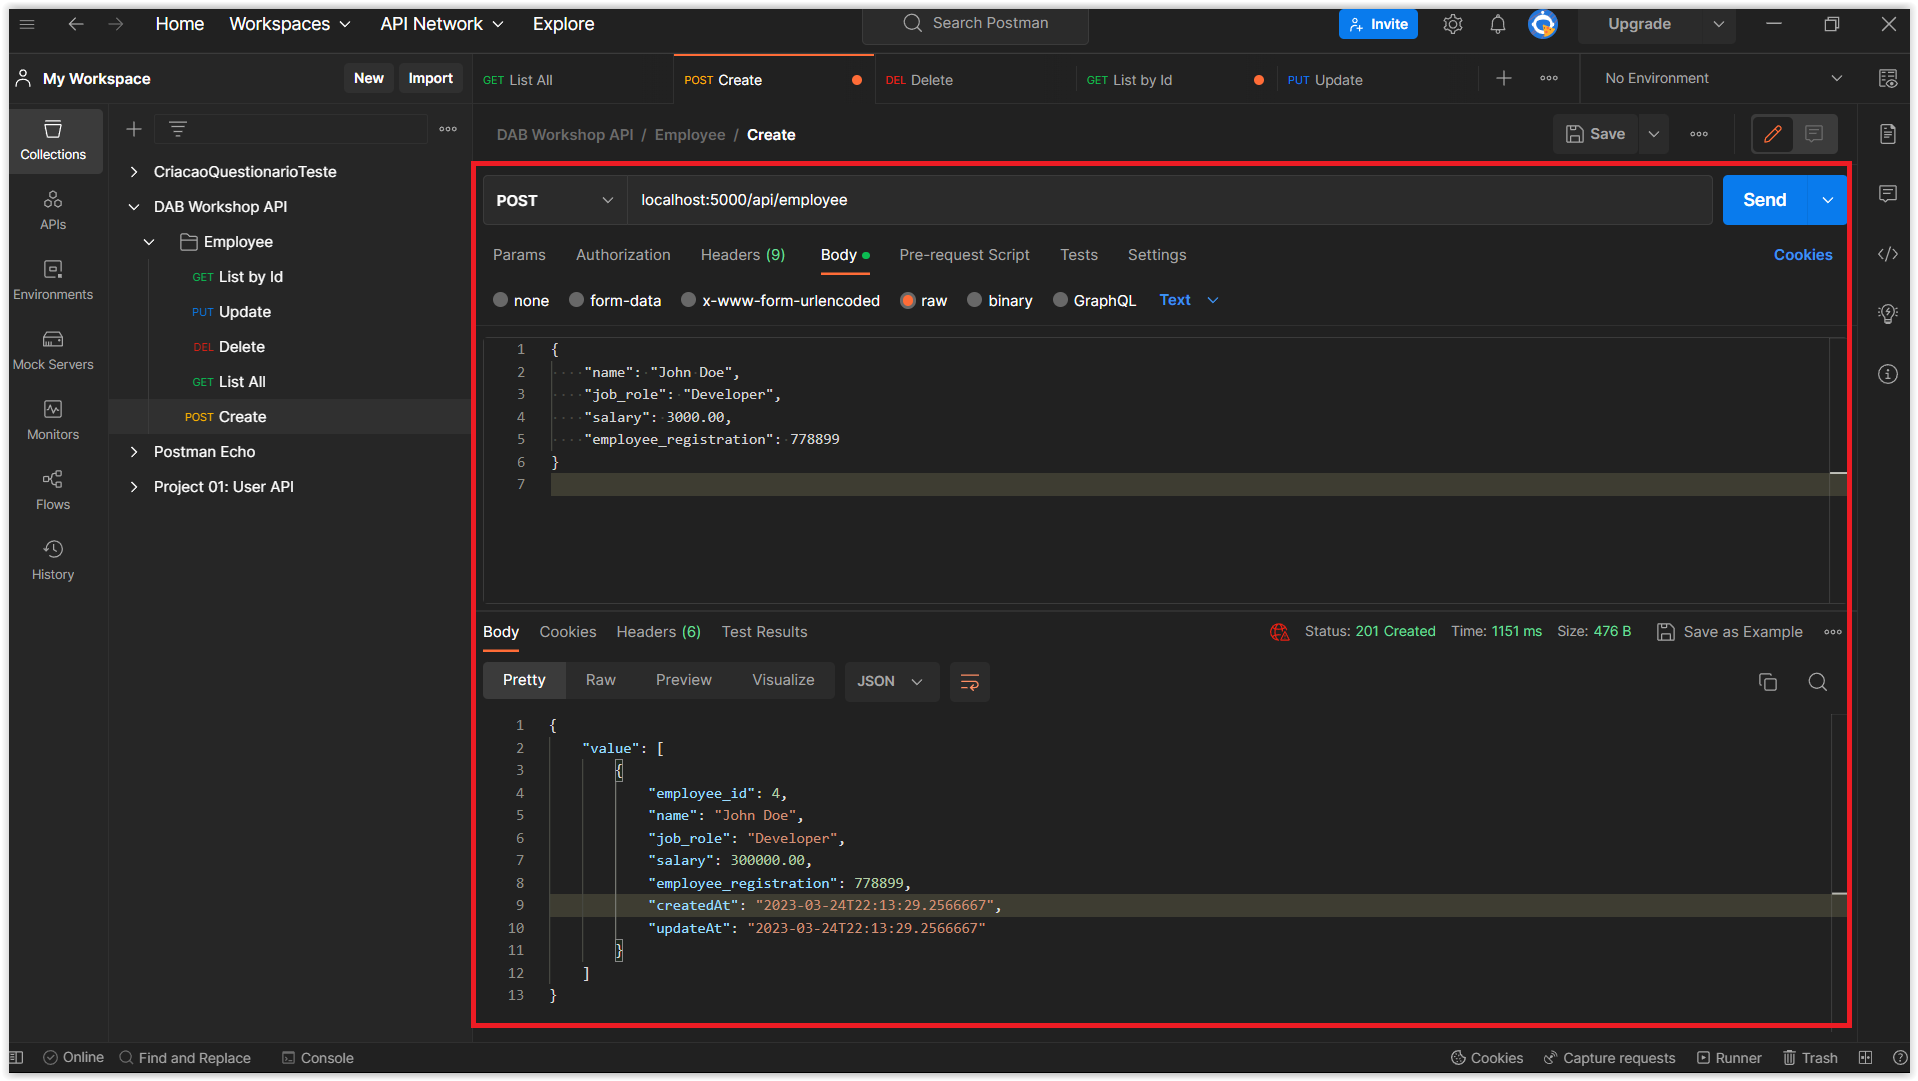
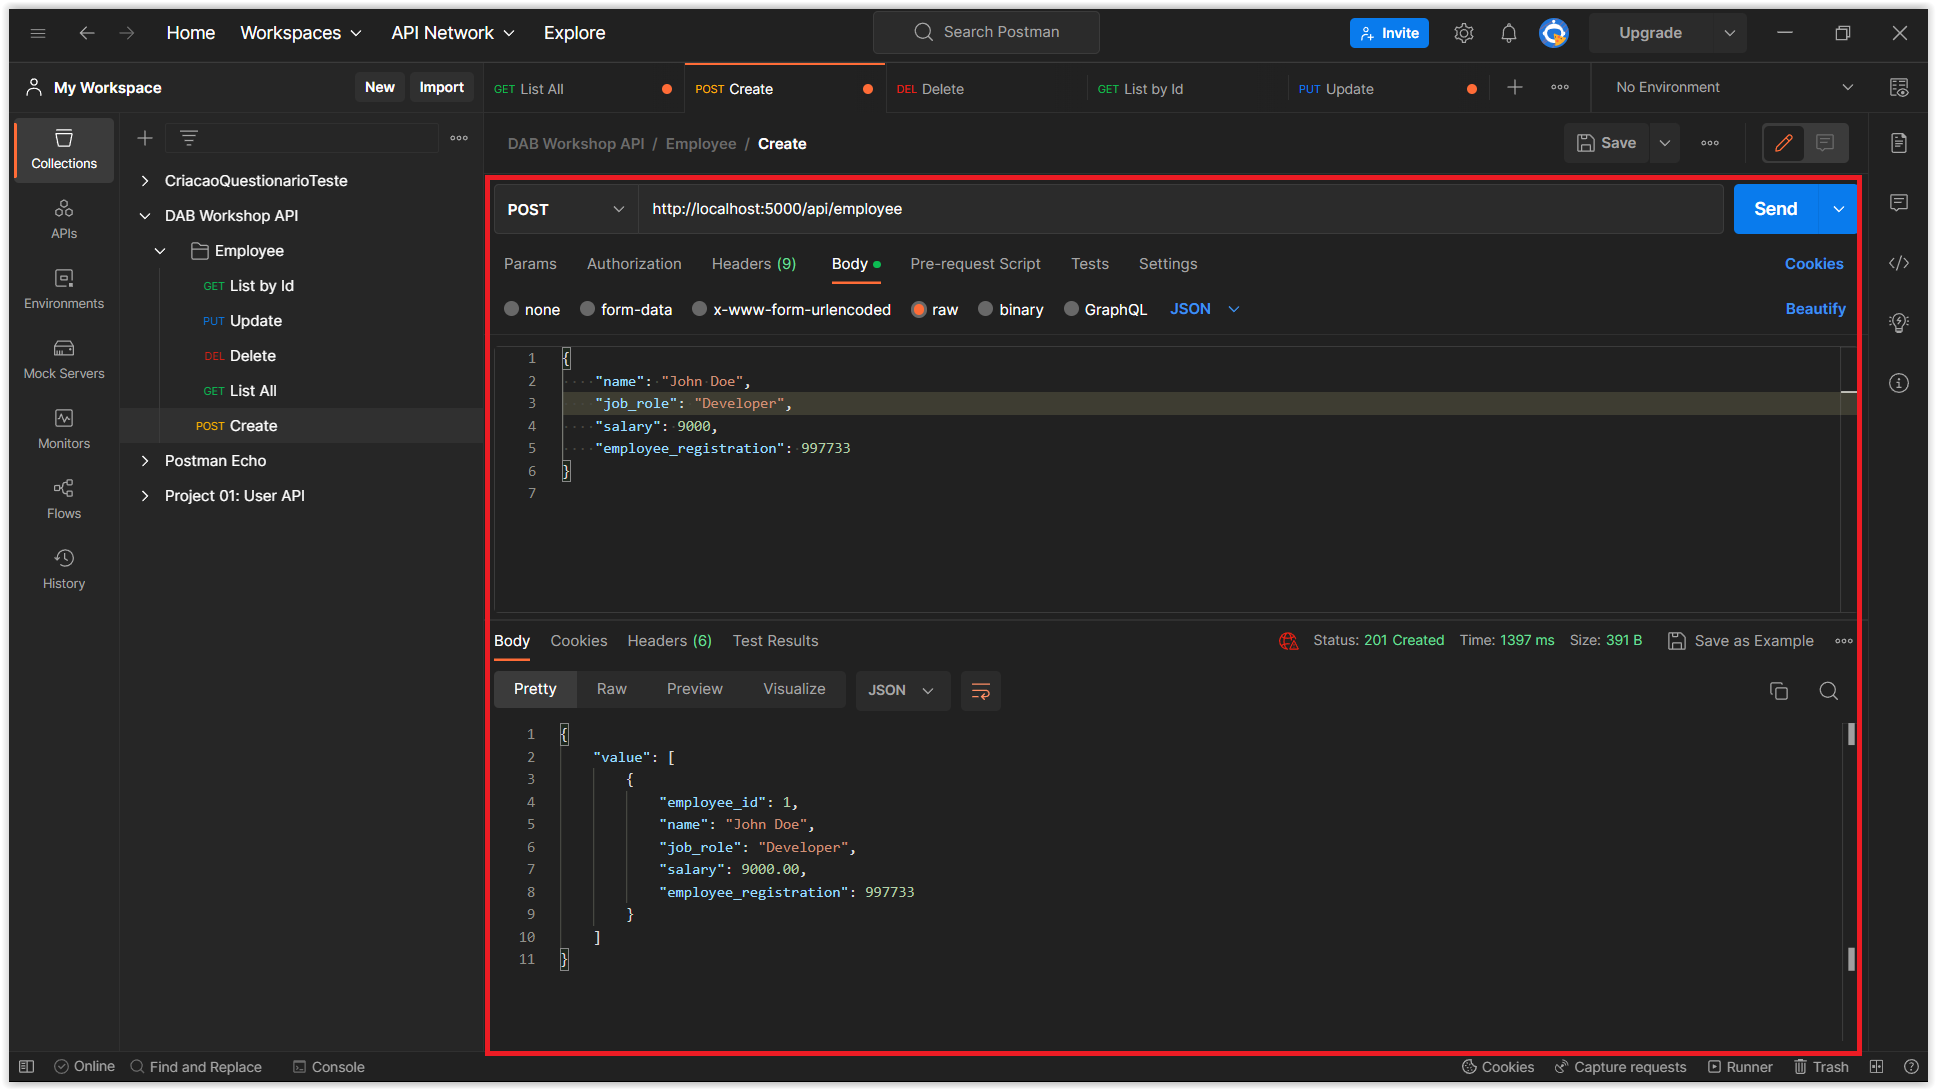
chore: some important changes in the session-06

diff --git a/workshops/en-us/workshop-demo-01/06-session.md b/workshops/en-us/workshop-demo-01/06-session.md
@@ -8,7 +8,7 @@ Since we finished setting up the database with the DAB CLI in the last session, 
 dab start --no-https-redirect
 ```
 
-> **Note:** The dab start command will start the DAB server and expose our API. To stop the server, simply press `Ctrl+C`.
+> **Note:** The `dab start --no-https-redirect` command will start the DAB server and expose our API. To stop the server, simply press `Ctrl+C`.
 
 If you run the command and the message appears as shown in the image below, it means that the server has started successfully. Note that the indicated port is `5000`.
 
@@ -23,11 +23,8 @@ Since our entity is an `employee`, the route will be `/api/employee`.
 The supported HTTP verbs are:
 
 - `GET`: to get data POST: to create data;
-
 - `PUT`: to update data
-
 - `PATCH`: to partially update the data.
-
 - `DELETE`: to delete data Let's now test all the routes!
 
 ## Route: POST 
@@ -36,14 +33,14 @@ To create a new employee, open Postman and create a new request:
 
 - `POST`: `http://localhost:5000/api/employee`
 
-In Postman, choose the option Body -> raw and include the following JSON:
+In Postman, choose the option `Body -> raw` and include the following JSON:
 
 ```json
 {
     "name": "John Doe",
     "job_role": "Developer",
-    "salary": 3000.00,
-    "employee_registration": 778899
+    "salary": 9000,
+    "employee_registration": 997733
 }
 ```
 
@@ -77,7 +74,7 @@ It will return all registered employees
 
 To get a specific employee, open Postman and create a new request:
 
-- `GET`: `localhost:5000/api/employee/employee_id/2 `
+- `GET`: `localhost:5000/api/employee/employee_id/2`
 
 It will return the employee's ID 2.
 
@@ -100,14 +97,14 @@ In Postman, choose the option `Body -> raw` and include the following JSON:
 
 ```json
 {
-    "name": "Glaucia Lemos",
-    "job_role": "Developer Advocate",
-    "salary": 3000.00,
-    "employee_registration": 445566,
-    "createdAt": "2023-03-24T23:59:02",
-    "updateAt": "2023-03-24T23:59:02"
+    "name": "John Smith",
+    "job_role": "Program Manager",
+    "salary": 8000.00,
+    "employee_registration": 448811
 }
 ```
+
+![image-23](./../../workshop-images/image-23.jpg)
 
 ## Route: DELETE 
 
@@ -120,6 +117,8 @@ And to make sure that it was deleted from the database, open Azure Data Studio a
 ```sql
 SELECT * FROM employees
 ```
+
+![image-24](./../../workshop-images/image-24.jpg)
 
  If it was successfully deleted, the record will no longer be displayed.
 

diff --git a/workshops/pt-br/workshop-demo-01/06-session.md b/workshops/pt-br/workshop-demo-01/06-session.md
@@ -5,10 +5,10 @@ Nessa sessão, aprenderemos como usar o Data API Builder para conectar a nossa A
 Agora que já fizemos toda a configuração do nosso banco de dados usando o DAB CLI na sessão anterior, agora estamos prontos para usar a nossa API. Para isso, execute o seguinte comando:
 
 ```bash
-dab start
+dab start --no-https-redirect
 ```
 
-> **Observação:** O comando `dab start` irá iniciar o servidor do DAB e expor a nossa API. Para parar o servidor, basta pressionar `Ctrl + C`.
+> **Observação:** O comando `dab start --no-https-redirect` iniciará o servidor do DAB e expor a nossa API. Para parar o servidor, basta pressionar `Ctrl + C`.
 
 Se ao executar o comando e aparecer a mensagem conforme a imagem abaixo, significa que o servidor foi iniciado com sucesso. Note que a porta indicada é a `5000`.
 
@@ -42,8 +42,8 @@ No Postman escolha a opção `Body -> raw` e inclua o seguinte JSON:
 {
     "name": "John Doe",
     "job_role": "Developer",
-    "salary": 3000.00,
-    "employee_registration": 778899
+    "salary": 9000,
+    "employee_registration": 997733
 }
 ```
 
@@ -99,14 +99,14 @@ No Postman escolha a opção `Body -> raw` e inclua o seguinte JSON:
 
 ```json
 {
-    "name": "Glaucia Lemos",
-    "job_role": "Developer Advocate",
-    "salary": 3000.00,
-    "employee_registration": 445566,
-    "createdAt": "2023-03-24T23:59:02",
-    "updateAt": "2023-03-24T23:59:02"
+    "name": "John Smith",
+    "job_role": "Program Manager",
+    "salary": 8000.00,
+    "employee_registration": 448811
 }
 ```
+
+![image-23](./../../workshop-images/image-23.jpg)
 
 ## Rota: DELETE
 
@@ -119,6 +119,8 @@ E para ter certeza de que deletou na base de dados, abre o Azure Data Studio e e
 ```sql
 SELECT * FROM employees
 ```
+
+![image-24](./../../workshop-images/image-24.jpg)
 
 Se deletou com sucesso, o registro não será mais exibido.
 
